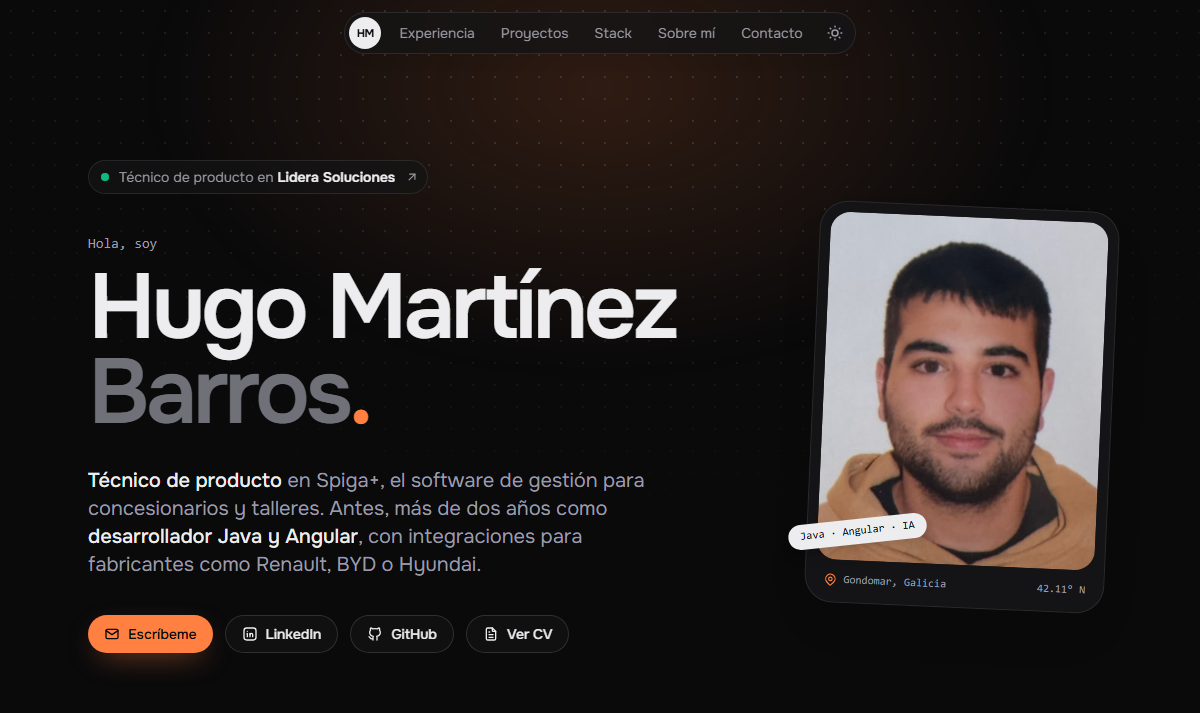
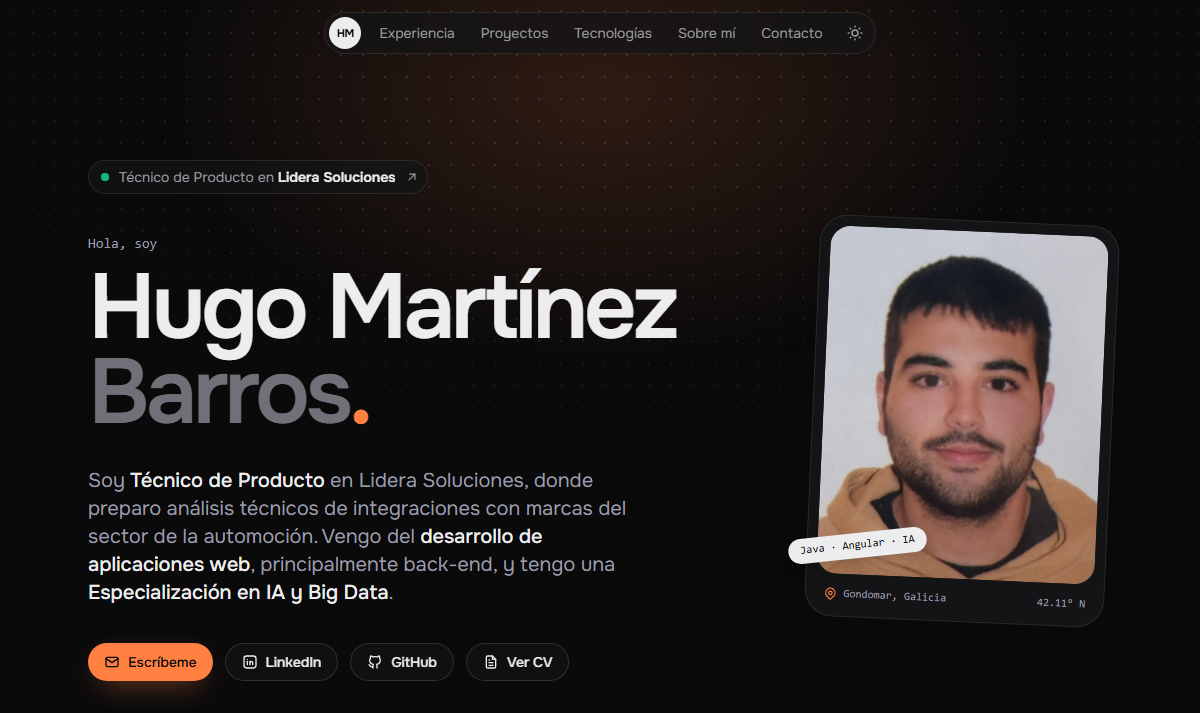
fix: restore original texts and update experience from CV
- Describe the Lidera Soluciones role as technical analysis for
  development, mainly integrations with automotive brands
- Use the CV wording for DigitalizaT and RecambiosDiez
- Restore original About me, hero and project descriptions
- Simplify section titles and refresh the preview image

diff --git a/src/data/portfolio.ts b/src/data/portfolio.ts
@@ -28,44 +28,48 @@ export interface Job {
 
 export const EXPERIENCE: Job[] = [
   {
-    role: "Técnico de producto",
+    role: "Técnico de Producto",
     company: "Lidera Soluciones",
     link: "https://liderasoluciones.com",
     period: "Sep 2026 — Actualidad",
     current: true,
     summary:
-      "Formo parte del equipo de producto de Spiga+, el software con el que concesionarios, talleres e importadores gestionan su día a día.",
+      "Equipo de producto de Spiga+, el software de gestión para concesionarios, talleres e importadores del sector de la automoción.",
     highlights: [
-      "Analizo nuevas funcionalidades e integraciones y las convierto en requisitos funcionales claros para el equipo de desarrollo.",
-      "Preparo la documentación técnica y realizo pruebas técnicas y funcionales antes de cada entrega.",
-      "Trabajo con clientes y proveedores para detectar incidencias y proponer mejoras en el producto.",
+      "Elaboración de análisis técnicos de nuevos desarrollos, que sirven de base al equipo de programación para su implementación.",
+      "Análisis de integraciones con marcas del sector de la automoción, definiendo el alcance y los requisitos técnicos de cada desarrollo.",
     ],
-    tags: ["Análisis funcional", "Requisitos", "Integraciones", "API REST", "SOAP", "Testing"],
+    tags: ["Análisis técnico", "Integraciones", "Requisitos", "Automoción"],
   },
+  // Textos de DigitalizaT y RecambiosDiez sacados del CV (hugomaartinez-cv/src/data/cv.ts)
   {
-    role: "Desarrollador Full-Stack",
+    role: "Desarrollador Web Full-Stack",
     company: "DigitalizaT Solutions",
     link: "https://digitalizat.com",
     period: "Oct 2024 — Jul 2026",
-    location: "Vigo",
+    location: "Vigo, España",
     highlights: [
-      "Lideré el diseño y desarrollo del módulo de expedientes de vehículo nuevo y de ocasión (VO/VN) para BYD e Hyundai, que abrió la puerta a nuevos concesionarios.",
-      "Integración con Renault para sincronizar el stock de vehículos de ocasión de los talleres, con procesos diarios, mensuales y bajo demanda.",
-      "Microservicios para actualizar el stock de los concesionarios de BYD España y automatizar la impresión de facturas.",
-      "Migración progresiva de pantallas legacy (JSP y jQuery) a Angular y optimización del backend en Java y MariaDB.",
+      "Desarrollo de una integración con Renault para actualizar el stock de vehículos de ocasión de los talleres conectados a la plataforma, con procesos diarios, mensuales y bajo demanda.",
+      "Lideré el diseño y desarrollo del nuevo módulo de expedientes VO/VN para BYD e Hyundai, definiendo la estructura de datos, reglas de negocio y configuración de conceptos del expediente.",
+      "El módulo permitió gestionar expedientes de vehículos nuevos y de ocasión, eliminó una limitación clave del producto y facilitó la entrada de nuevos concesionarios, con impacto positivo en la facturación.",
+      "Colaboración en la integración de microservicios para actualizar el stock de concesionarios de BYD España y para automatizar procesos de impresión de facturas.",
+      "Evolución de la arquitectura backend en Java y MariaDB, optimizando consultas y procesos críticos vinculados a la gestión de vehículos y expedientes.",
+      "Desarrollo de interfaces dinámicas con Angular y migración progresiva de pantallas legacy basadas en JSP, JavaScript nativo y jQuery.",
+      "Diseño y despliegue de un CMS con Hugo y PayloadCMS para redes de talleres, además de integraciones con APIs externas para procesos operativos.",
     ],
-    tags: ["Java", "Spring Boot", "Angular", "MariaDB", "MongoDB", "Kafka", "Docker"],
+    tags: ["Java", "Spring Boot", "Angular", "MariaDB", "MongoDB", "Kafka", "PayloadCMS", "Microservicios", "Docker"],
   },
   {
-    role: "Desarrollador Back-end",
+    role: "Desarrollador Web Back-end",
     company: "RecambiosDiez",
     link: "https://recambiosdiez.com",
     period: "Feb 2024 — Sep 2024",
     location: "Valença, Portugal",
     highlights: [
-      "Módulos a medida para PrestaShop y aplicaciones internas para agilizar el trabajo diario del equipo.",
-      "Endpoints REST para extraer y analizar datos operativos y automatizar tareas recurrentes.",
-      "Primeros pasos de un ERP propio para sustituir el front-end de PrestaShop y ganar rendimiento.",
+      "Desarrollo de módulos personalizados para la plataforma PrestaShop y creación de aplicaciones a medida para la optimización de procesos internos.",
+      "Diseño y despliegue de endpoints para la extracción y análisis de datos operativos, integrando APIs REST para automatizar tareas recurrentes.",
+      "Desarrollo inicial de un sistema ERP propio destinado a sustituir el front-end de PrestaShop, enfocado en mejorar el rendimiento y la escalabilidad de la plataforma.",
+      "Implementación de soluciones con PHP, MySQL y JavaScript para adaptar el software a necesidades internas de negocio.",
     ],
     tags: ["PHP", "MySQL", "PrestaShop", "JavaScript"],
   },
@@ -86,17 +90,17 @@ export const PROJECTS: Project[] = [
   {
     title: "Courtly",
     description:
-      "Gestión integral de pistas deportivas: reservas, estadísticas y administración en tiempo real para clubes.",
+      "Gestión integral de pistas deportivas. Reservas, estadísticas y administración en tiempo real.",
     link: "https://app.hugomaartinez.dev",
     image: "/projects/courtly.png",
-    alt: "Página de inicio de Courtly, aplicación de gestión de pistas deportivas",
+    alt: "Panel de control de la aplicación Courtly",
     tags: ["Next.js", "Tailwind CSS"],
     featured: true,
   },
   {
     title: "Curriculum Vitae",
     description:
-      "Currículum interactivo y minimalista. Multilingüe (ES, EN, GL, PT) y optimizado para SEO, rendimiento e impresión.",
+      "Currículum profesional interactivo y minimalista. Multilingüe (ES, EN, GL, PT) y optimizado para SEO, rendimiento e impresión.",
     link: "https://cv.hugomaartinez.dev",
     github: "https://github.com/hugomaartinez/hugomaartinez-cv",
     image: "/projects/cv.png",
@@ -106,21 +110,21 @@ export const PROJECTS: Project[] = [
   {
     title: "FenixZone Timers",
     description:
-      "Temporizadores en tiempo real para las casas de robo de un servidor de GTA San Andreas Multiplayer.",
+      "Temporizadores en tiempo real para las casas de robo de un servidor de GTA San Andreas Multiplayer",
     link: "https://fenixzone-timers.vercel.app/",
     github: "https://github.com/hugomaartinez/fenixzone-timers",
     image: "/projects/fenixzone-timers.png",
-    alt: "Panel con los temporizadores de las casas de robo de FenixZone",
+    alt: "Imagen del proyecto de los temporizadores para las casas de robo de FenixZone",
     tags: ["Next.js", "Tailwind CSS"],
   },
   {
-    title: "Este portfolio",
+    title: "Portfolio - Hugo Martínez Barros",
     description:
-      "La web que estás viendo: diseño propio, modo claro y oscuro, sin frameworks de cliente y con datos estructurados para SEO.",
+      "Mi portafolio personal, donde muestro mis proyectos y habilidades",
     link: "https://hugomaartinez.dev",
     github: "https://github.com/hugomaartinez/porfolio-hugomaartinez",
     image: "/projects/porfolio.png",
-    alt: "Captura de pantalla de mi portfolio personal",
+    alt: "Imagen de mi portafolio personal",
     tags: ["Astro", "Tailwind CSS"],
   },
 ];
@@ -129,11 +133,10 @@ export const SKILLS: { group: string; items: string[] }[] = [
   {
     group: "Producto",
     items: [
-      "Análisis funcional",
+      "Análisis técnico",
+      "Integraciones",
       "Requisitos",
       "Documentación técnica",
-      "Pruebas funcionales",
-      "Integraciones",
     ],
   },
   {
